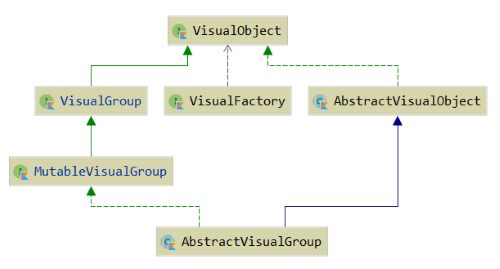
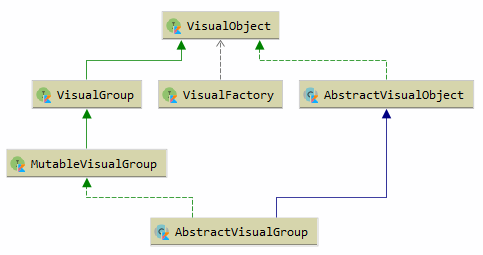
README and pictures update

Changed region(s): [[0.0, 0.0275, 0.9938, 0.9608]]

diff --git a/README.md b/README.md
@@ -2,15 +2,34 @@
 
 # DataForge Visualisation Platform
 
-This repository contains [DataForge](http://npm.mipt.ru/dataforge/) 
-(also [here](https://github.com/mipt-npm/dataforge-core)) components useful for visualization in
-various scientific applications. The main application for now is 3D visualization for particle
-physics experiments. Other applications including 2D plots are planned for future.
+## Table of contents
 
-The project is developed as a Kotlin multiplatform application, currently 
-targeting browser JavaScript and JVM.
+* [Introduction](#introduction)
+* [Features](#features)
+* [Modules contained in this repository](#modules-contained-in-this-repository)
+  * [dataforge-vis-common](#dataforge-vis-common)
+  * [dataforge-vis-spatial](#dataforge-vis-spatial)
+  * [dataforge-vis-spatial-gdml](#dataforge-vis-spatial-gdml)
+  * [dataforge-vis-jsroot](#dataforge-vis-jsroot)
+* [Demonstrations](#demo)
+  * [Spatial Showcase](#spatial-showcase)
+  * [Muon Monitor](#muon-monitor)
+  * [GDML](#gdml)
 
-Main features:
+## Introduction
+
+This repository contains a [DataForge](#about-dataforge)\-based framework 
+used for visualization in various scientific applications. 
+
+The main framework's use case for now is 3D visualization for particle physics experiments. 
+Other applications including 2D plots are planned for the future.
+
+The project is being developed as a Kotlin multiplatform application, currently targeting browser 
+JavaScript and JVM.
+
+## Features
+
+The main framework's features for now include:
 - 3D visualization of complex experimental set-ups
 - Event display such as particle tracks, etc.
 - Scales up to few hundred thousands of elements
@@ -18,14 +37,24 @@ Main features:
 - Object tree with property editor
 - Settings export and import
 - Multiple platform support
- 
 
-## Modules contained in this repository:
+## About DataForge
 
+DataForge is a software framework for automated scientific data processing. DataForge Visualization
+Platform uses some of the concepts and modules of DataForge, including: `Meta`, `Configuration`, `Context`,
+`Provider`, and some others.
+
+To learn more about DataForge, please consult the following URLs:
+ * [Kotlin multiplatform implementation of DataForge](https://github.com/mipt-npm/dataforge-core)  
+ * [DataForge documentation](http://npm.mipt.ru/dataforge/) 
+ * [Original implementation of DataForge](https://bitbucket.org/Altavir/dataforge/src/default/)
+
+## Modules contained in this repository
 
 ### dataforge-vis-common 
 
-Common visualisation objects such as VisualObject and VisualGroup.
+Contains a general hierarchy of classes and interfaces useful for visualization. 
+This module is not 3D-specific.
 
 Class diagram: 
 
@@ -33,7 +62,6 @@ Class diagram:
 
 This module also includes configuration editors for JS (in jsMain) and JVM (in jvmMain).
 
-Note: this module is not 3D-specific.
 
 ### dataforge-vis-spatial
 
@@ -55,22 +83,23 @@ Some JSROOT bindings.
 Note: Currently, this part is experimental and put here for completeness. This module may not build.
 
 
-### demo
+## Demonstrations
 
-Several demonstrations of using the dataforge-vis framework:
+The `demo` module contains several demonstrations of using the `dataforge-vis` framework:
 
-##### spatial-showcase
+### spatial-showcase
 
-Contains a simple demonstration (grid with a few shapes that you can rotate, move camera, etc.).
+Contains a simple demonstration with a grid including a few shapes that you can rotate, move camera, and so on.
+Some shapes will also periodically change their color and visibility. 
  
-To see the demo: run `demo/spatial-showcase/distribution/installJsDist` Gradle task, then open
+To see the demo: run `demo/spatial-showcase/Tasks/distribution/installJsDist` Gradle task, then open
 `build/distribuions/spatial-showcase-js-0.1.0-dev/index.html` file in your browser.
 
-Other demos can be built similarly.  
+Example view:
 
 ![](doc/resources/spatial-showcase.png)
 
-##### muon-monitor
+### muon-monitor
 
 A full-stack application example, showing the 
 [Muon Monitor](http://npm.mipt.ru/projects/physics.html#mounMonitor) experiment set-up.
@@ -80,12 +109,19 @@ Includes server back-end generating events, as well as visualization front-end.
 To run full-stack app (both server and browser front-end), run 
 `demo/muon-monitor/application/run` task.
 
+Example view:
+
 ![](doc/resources/muon-monitor.png)
 
-##### gdml
+### gdml
 
-Visualization example for geometry defined as GDML file. Once you open Web application,
-drag-and-drop GDML file to the window to see visualization. For example file, use 
-`demo\gdml\src\jsMain\resources\cubes.gdml`.
+Visualization example for geometry defined as GDML file. 
+
+To build the app, run `demo/gdml/Tasks/distribution/installJsDist` task, then open
+`build/distribuions/gdml-js-0.1.0-dev/index.html` file in your browser, and
+drag-and-drop GDML file to the window to see visualization. For an example file, use 
+`demo/gdml/src/jsMain/resources/cubes.gdml`.
+
+Example view:
 
 ![](doc/resources/gdml-demo.png)
